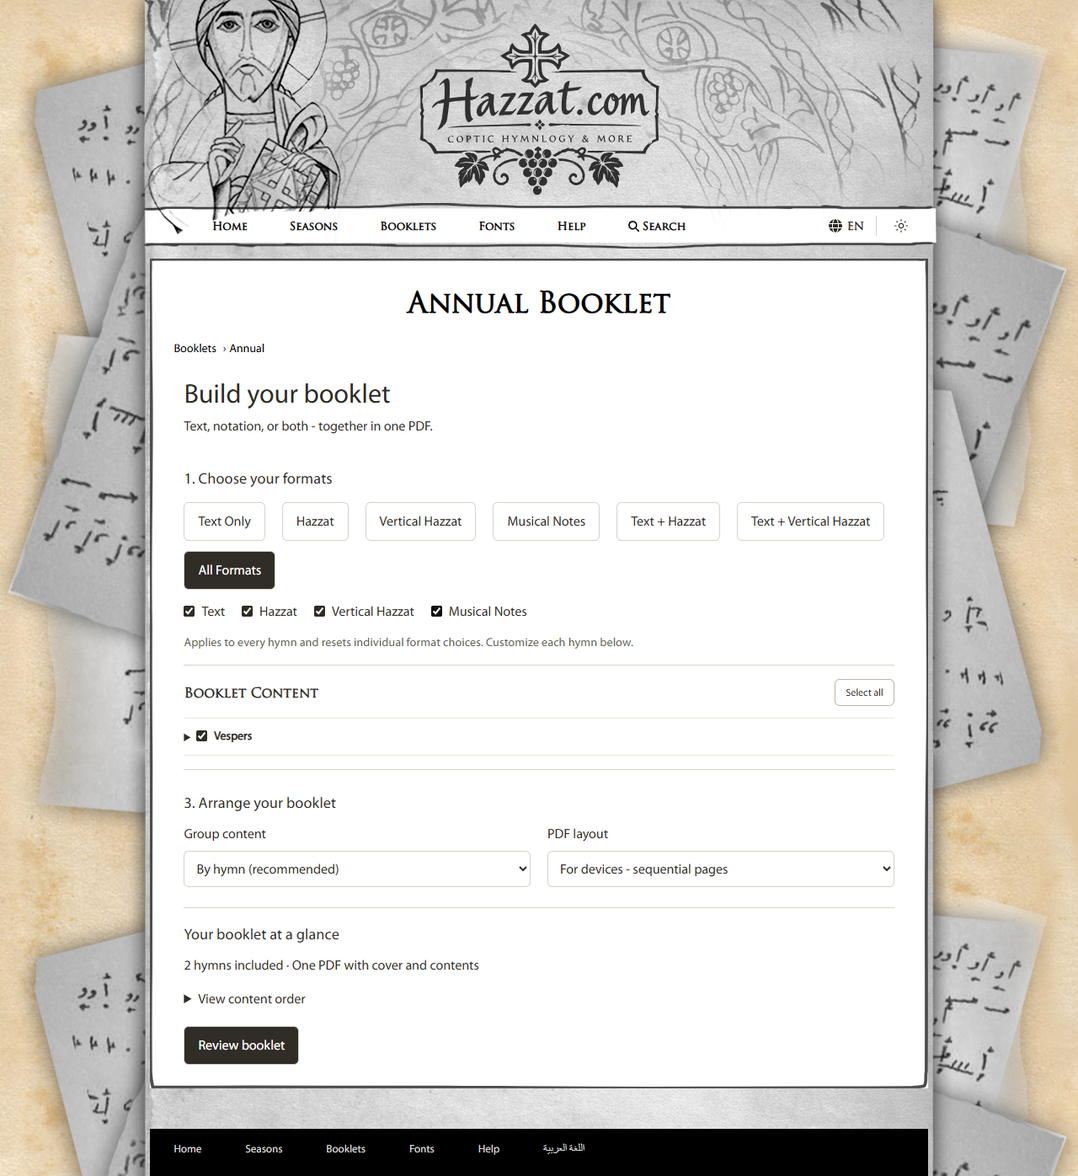
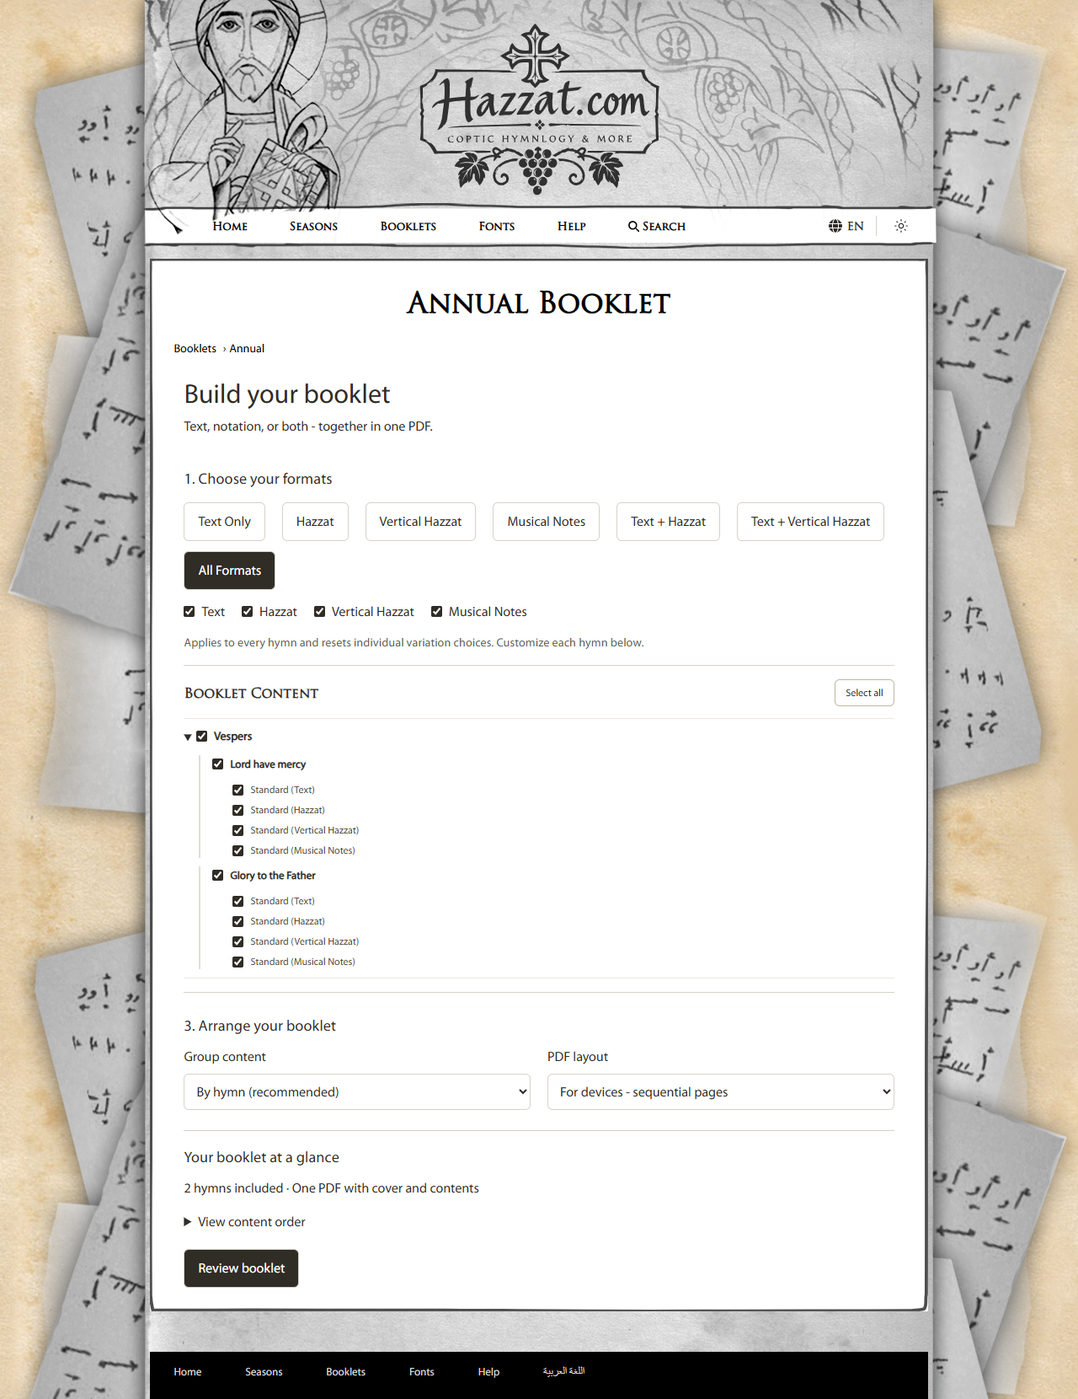
Simplify booklet hymn selection to named variations (#217)
* Simplify booklet hymn choices to named variation checkboxes

* Automatically omit unavailable booklet formats

diff --git a/src/Components/BookletDetails.tsx b/src/Components/BookletDetails.tsx
@@ -42,7 +42,6 @@ function BookletDetails() {
     const [formats, setFormats] = useState<BookletFormatKind[]>(["text", "regular"]);
     const [grouping, setGrouping] = useState<BookletGroupingKind>("hymn");
     const [layout, setLayout] = useState<BookletLayoutKind>("display");
-    const [allowMissing, setAllowMissing] = useState(false);
     const [preview, setPreview] = useState<{ url: string; name: string }>();
 
     const isMounted = useRef(true);
@@ -50,7 +49,6 @@ function BookletDetails() {
     const [loadFailed, setLoadFailed] = useState(false);
 
     useEffect(() => {
-        setAllowMissing(false);
         setPreview(undefined);
     }, [selection, formats, grouping, layout]);
 
@@ -110,7 +108,7 @@ function BookletDetails() {
         const request = requestId.current;
         const selected = getSelectedBookletServices(services, selection, formats);
         const selectedKinds = bookletFormatKinds.filter(kind => getBookletSections(selected, [kind]).length > 0);
-        if (!selectedKinds.length || (getMissingBookletFormats(services, selection, formats).length > 0 && !allowMissing)) return;
+        if (!selectedKinds.length) return;
         setActiveDownload(downloadKey);
         setErrorMessage(undefined);
 
@@ -151,7 +149,6 @@ function BookletDetails() {
 
     const selectedServices = getSelectedBookletServices(services, selection, formats);
     const sections = getBookletSections(selectedServices, bookletFormatKinds, grouping);
-    const missing = getMissingBookletFormats(services, selection, formats);
     const busy = !!activeDownload;
     const availableFormats = bookletFormatKinds.filter(kind => hasBookletFormat(services, kind));
     const presets: { kinds: BookletFormatKind[]; label: string }[] = [
@@ -165,7 +162,10 @@ function BookletDetails() {
     ];
     const applyFormats = (next: BookletFormatKind[]) => {
         setFormats(next);
-        setSelection(current => ({ ...current, formats: {} }));
+        setSelection(current => {
+            const nextSelection = createDefaultSelection(services);
+            return { ...current, formats: {}, variations: nextSelection.variations };
+        });
     };
 
     return (
@@ -210,7 +210,6 @@ function BookletDetails() {
                     selection={selection}
                     onSelectionChange={setSelection}
                     formats={formats}
-                    availableFormats={availableFormats}
                 />
                 <h3>{strings.bookletArrange}</h3>
                 <div className="bookletLayoutChoices">
@@ -227,11 +226,6 @@ function BookletDetails() {
                         </select>
                     </label>
                 </div>
-                {missing.length > 0 && <div className="bookletMissing" role="status">
-                    <strong>{strings.bookletMissingFormats}</strong>
-                    <ul>{missing.map(item => <li key={item.key}>{item.label}</li>)}</ul>
-                    <label><input type="checkbox" checked={allowMissing} onChange={event => setAllowMissing(event.target.checked)} /> {strings.bookletSkipMissing}</label>
-                </div>}
                 <section className="bookletReview" aria-labelledby="bookletReviewTitle">
                     <h3 id="bookletReviewTitle">{strings.bookletAtGlance}</h3>
                     <p aria-live="polite">{selectedServices.reduce((sum, service) => sum + (service.hymns?.length || 0), 0)} {strings.bookletHymnsSelected} · {strings.bookletOnePdf}</p>
@@ -239,7 +233,7 @@ function BookletDetails() {
                         <ol>{sections.map((section, i) => <li key={i}>{section.service.displayName || section.service.name} / {section.hymn.displayName || section.hymn.name} · {getFormatName(section.formatKind)}</li>)}</ol>
                     </details>
                     {!sections.length && <p role="status">{strings.bookletNoSelectedContent}</p>}
-                    <button type="button" className="bookletPrimaryAction" disabled={!sections.length || (missing.length > 0 && !allowMissing)} onClick={reviewBooklet}>
+                    <button type="button" className="bookletPrimaryAction" disabled={!sections.length} onClick={reviewBooklet}>
                         {busy ? strings.generatingBooklet : strings.bookletReviewPdf}
                     </button>
                 </section>
@@ -271,7 +265,6 @@ interface BookletContentSelectorProps {
     selection: BookletSelectionState;
     onSelectionChange: React.Dispatch<React.SetStateAction<BookletSelectionState>>;
     formats: BookletFormatKind[];
-    availableFormats: BookletFormatKind[];
 }
 
 function BookletContentSelector(props: BookletContentSelectorProps) {
@@ -302,7 +295,7 @@ function BookletContentSelector(props: BookletContentSelectorProps) {
 
                         {[...(service.hymns || [])].sort((a, b) => a.order - b.order).map(hymn => {
                             const selectableVariations = getSelectableVariations(hymn).filter(variation =>
-                                (hymn.formats?.find(format => format.id === variation.formatId)?.variations?.length || 0) > 1);
+                                hasBookletVariationContent(variation, formatKindFromId(variation.formatId)));
 
                             return (
                                 <div key={hymnKey(service, hymn)} className="bookletHymnSelector">
@@ -315,29 +308,17 @@ function BookletContentSelector(props: BookletContentSelectorProps) {
                                         {hymn.displayName || hymn.name}
                                     </label>
 
-                                    <div className="bookletFormatChoices">
-                                        {props.availableFormats.map(kind => <label key={kind}>
-                                            <input type="checkbox" checked={(props.selection.formats?.[hymnKey(service, hymn)] ?? props.formats).includes(kind)}
-                                                onChange={event => {
-                                                    const checked = event.target.checked;
-                                                    props.onSelectionChange(current => {
-                                                        const currentFormats = current.formats?.[hymnKey(service, hymn)] ?? props.formats;
-                                                        return { ...current, formats: { ...current.formats, [hymnKey(service, hymn)]: bookletFormatKinds.filter(k => k === kind ? checked : currentFormats.includes(k)) } };
-                                                    });
-                                                }} />{getFormatName(kind)}
-                                        </label>)}
-                                    </div>
-
                                     {selectableVariations.length > 0 && (
                                         <div className="bookletVariationSelectorGroup">
-                                            {selectableVariations.filter(variation => (props.selection.formats?.[hymnKey(service, hymn)] ?? props.formats).includes(formatKindFromId(variation.formatId))).map(variation => (
+                                            {selectableVariations.map(variation => (
                                                 <label key={variationKey(service, hymn, variation)} className="bookletVariationSelector">
                                                     <input
                                                         type="checkbox"
-                                                        checked={isVariationSelected(props.selection, service, hymn, variation)}
-                                                        onChange={event => toggleVariationSelection(props.onSelectionChange, service, hymn, variation, event.target.checked)}
+                                                        checked={isVariationSelected(props.selection, service, hymn, variation) &&
+                                                            (props.selection.formats?.[hymnKey(service, hymn)] ?? props.formats).includes(formatKindFromId(variation.formatId))}
+                                                        onChange={event => toggleVariationSelection(props.onSelectionChange, service, hymn, variation, event.target.checked, props.formats)}
                                                     />
-                                                    {getVariationDisplayName(variation)} <small>({getFormatName(formatKindFromId(variation.formatId))})</small>
+                                                    <span>{getVariationDisplayName(variation)} ({getFormatName(formatKindFromId(variation.formatId))})</span>
                                                 </label>
                                             ))}
                                         </div>
@@ -384,6 +365,7 @@ function toggleServiceSelection(
         next.services[service.id] = checked;
         (service.hymns || []).forEach(hymn => {
             next.hymns[hymnKey(service, hymn)] = checked;
+            delete next.formats?.[hymnKey(service, hymn)];
             getSelectableVariations(hymn).forEach(variation => {
                 next.variations[variationKey(service, hymn, variation)] = checked;
             });
@@ -401,6 +383,7 @@ function toggleHymnSelection(
     setSelection(selection => {
         const next = cloneSelection(selection);
         next.hymns[hymnKey(service, hymn)] = checked;
+        delete next.formats?.[hymnKey(service, hymn)];
         getSelectableVariations(hymn).forEach(variation => {
             next.variations[variationKey(service, hymn, variation)] = checked;
         });
@@ -414,11 +397,26 @@ function toggleVariationSelection(
     service: IServiceInfo,
     hymn: IHymnInfo,
     variation: BookletVariation,
-    checked: boolean
+    checked: boolean,
+    defaultFormats: BookletFormatKind[]
 ) {
     setSelection(selection => {
         const next = cloneSelection(selection);
+        const key = hymnKey(service, hymn);
+        const kind = formatKindFromId(variation.formatId);
+        const hymnWasSelected = isHymnSelected(selection, service, hymn);
+        const requested = hymnWasSelected ? selection.formats?.[key] ?? defaultFormats : [];
+        if (checked && !hymnWasSelected) {
+            getSelectableVariations(hymn).forEach(candidate => { next.variations[variationKey(service, hymn, candidate)] = false; });
+        }
+        const sameFormat = getSelectableVariations(hymn).filter(candidate => candidate.formatId === variation.formatId &&
+            hasBookletVariationContent(candidate, kind));
+        if (checked && !requested.includes(kind)) {
+            sameFormat.forEach(candidate => { next.variations[variationKey(service, hymn, candidate)] = false; });
+        }
         next.variations[variationKey(service, hymn, variation)] = checked;
+        const includeFormat = checked || sameFormat.some(candidate => next.variations[variationKey(service, hymn, candidate)] !== false);
+        next.formats = { ...next.formats, [key]: bookletFormatKinds.filter(candidate => candidate === kind ? includeFormat : requested.includes(candidate)) };
 
         if (checked) {
             next.hymns[hymnKey(service, hymn)] = true;
@@ -510,8 +508,11 @@ function hasSelectedHymnContent(selection: BookletSelectionState, service: IServ
     }
 
     const selectableVariations = getSelectableVariations(hymn);
+    const requested = selection.formats?.[hymnKey(service, hymn)];
+    if (requested && requested.length === 0) return false;
     return selectableVariations.length === 0 ||
-        selectableVariations.some(variation => selection.variations[variationKey(service, hymn, variation)] !== false);
+        selectableVariations.some(variation => (!requested || requested.includes(formatKindFromId(variation.formatId))) &&
+            selection.variations[variationKey(service, hymn, variation)] !== false);
 }
 
 function getBookletFormats(hymn: IHymnInfo): IFormatInfo[] {
@@ -543,18 +544,6 @@ function formatKindFromId(id: string): BookletFormatKind {
 
 function getFormatName(kind: BookletFormatKind): string {
     return kind === "musical" ? strings.musicalNotesLinkSuffix : kind === "text" ? strings.textFormatName : kind === "regular" ? strings.hazzatFormatName : strings.verticalHazzatFormatName;
-}
-
-export function getMissingBookletFormats(services: IServiceInfo[], selection: BookletSelectionState, formats: BookletFormatKind[]): { key: string; label: string }[] {
-    return services.flatMap(service => (service.hymns || []).filter(hymn => isHymnSelected(selection, service, hymn)).flatMap(hymn => {
-        const requested = selection.formats?.[hymnKey(service, hymn)] ?? formats;
-        const available = getSelectedBookletServices([{ ...service, hymns: [hymn] }], selection, formats);
-        if (!requested.length) return [{ key: hymnKey(service, hymn), label: `${service.displayName || service.name} / ${hymn.displayName || hymn.name}: ${strings.bookletChooseOneFormat}` }];
-        return requested.filter(kind => !getBookletSections(available, [kind]).length).map(kind => ({
-            key: `${hymnKey(service, hymn)}/${kind}`,
-            label: `${service.displayName || service.name} / ${hymn.displayName || hymn.name}: ${getFormatName(kind)}`
-        }));
-    }));
 }
 
 export default BookletDetails;

diff --git a/src/Components/BookletDetails.test.tsx b/src/Components/BookletDetails.test.tsx
@@ -5,7 +5,7 @@ import { HymnsDataProvider } from "../Providers/HymnsDataProvider/HymnsDataProvi
 import { ContentLanguage, ContentType } from "../Providers/HymnsDataProvider/Models/IVariationInfo";
 import { IServiceInfo } from "../Providers/HymnsDataProvider/Models/IServiceInfo";
 import { strings } from "../l8n";
-import BookletDetails, { getMissingBookletFormats, getSelectedBookletServices } from "./BookletDetails";
+import BookletDetails, { getSelectedBookletServices } from "./BookletDetails";
 
 jest.mock("axios", () => ({ create: jest.fn() }));
 
@@ -65,15 +65,16 @@ describe("booklet builder", () => {
         expect(revokeUrl).toHaveBeenCalledTimes(2);
     });
 
-    it("requires an explicit choice before omitting unavailable formats and disables empty booklets", async () => {
+    it("automatically omits unavailable formats and still disables empty booklets", async () => {
         const partial = { ...service, hymns: [...service.hymns!, { ...service.hymns![0], id: "second", name: "Second hymn", displayName: "Second hymn", formats: [service.hymns![0].formats![1]] }] };
         jest.spyOn(HymnsDataProvider.prototype, "getServiceList").mockResolvedValue([partial]);
         await openBuilder();
         fireEvent.click(screen.getByRole("button", { name: "Text + Hazzat" }));
-        expect(screen.getByRole("button", { name: "Review booklet" })).toBeDisabled();
-        expect(screen.getByRole("status")).toHaveTextContent("Second hymn: Text");
-        fireEvent.click(screen.getByLabelText(/Include available content/));
         expect(screen.getByRole("button", { name: "Review booklet" })).toBeEnabled();
+        expect(screen.queryByLabelText(/Include available content/)).not.toBeInTheDocument();
+        fireEvent.click(screen.getByRole("button", { name: "Review booklet" }));
+        await screen.findByRole("link", { name: "Download PDF" });
+        expect(generator.mock.calls[0][0].services[0].hymns!.map(hymn => hymn.formats!.map(format => format.id))).toEqual([["1", "2"], ["2"]]);
         fireEvent.click(screen.getByRole("button", { name: "Hazzat", exact: true }));
         expect(screen.queryByText(/Some selected formats/)).not.toBeInTheDocument();
         fireEvent.click(screen.getByRole("checkbox", { name: "Vespers" }));
@@ -83,13 +84,15 @@ describe("booklet builder", () => {
     it("supports per-hymn overrides, format grouping, and resets overrides when applying a preset", async () => {
         const { container } = await openBuilder();
         const hymn = container.querySelector('.bookletHymnSelector') as HTMLElement;
-        fireEvent.click(within(hymn).getByRole("checkbox", { name: "Hazzat", exact: true }));
+        expect(hymn.querySelector('.bookletFormatChoices')).not.toBeInTheDocument();
+        expect(within(hymn).getByRole("checkbox", { name: "Text words (Text)", exact: true })).toBeChecked();
+        fireEvent.click(within(hymn).getByRole("checkbox", { name: "Notation (Hazzat)", exact: true }));
         fireEvent.change(screen.getByLabelText("Group content"), { target: { value: "format" } });
         fireEvent.click(screen.getByRole("button", { name: "Review booklet" }));
         await screen.findByRole("link", { name: "Download PDF" });
         expect(generator).toHaveBeenLastCalledWith(expect.objectContaining({ formatKinds: ["text"], groupingKind: "format" }));
         fireEvent.click(screen.getByRole("button", { name: "Text + Hazzat" }));
-        expect(within(hymn).getByRole("checkbox", { name: "Hazzat", exact: true })).toBeChecked();
+        expect(within(hymn).getByRole("checkbox", { name: "Notation (Hazzat)", exact: true })).toBeChecked();
     });
 
     it("shows generation errors and permits retry", async () => {
@@ -101,6 +104,44 @@ describe("booklet builder", () => {
         expect(screen.getByRole("button", { name: "Review booklet" })).toBeEnabled();
         fireEvent.click(screen.getByRole("button", { name: "Review booklet" }));
         await screen.findByRole("link", { name: "Download PDF" });
+    });
+
+    it("lets a variation outside the preset add its format without selecting its sibling alternatives", async () => {
+        const alternatives = JSON.parse(JSON.stringify(service)) as IServiceInfo;
+        const notation = alternatives.hymns![0].formats![1];
+        notation.variations!.push({ ...notation.variations![0], id: "second", name: "Long tune", displayName: "Long tune" });
+        notation.variationCount = 2;
+        jest.spyOn(HymnsDataProvider.prototype, "getServiceList").mockResolvedValue([alternatives]);
+        const { container } = await openBuilder();
+        fireEvent.click(screen.getByRole("button", { name: "Text Only" }));
+        const hymn = container.querySelector('.bookletHymnSelector') as HTMLElement;
+        const first = within(hymn).getByRole("checkbox", { name: "Notation (Hazzat)", exact: true });
+        const second = within(hymn).getByRole("checkbox", { name: "Long tune (Hazzat)", exact: true });
+        expect(first).not.toBeChecked();
+        expect(second).not.toBeChecked();
+        fireEvent.click(second);
+        expect(first).not.toBeChecked();
+        expect(second).toBeChecked();
+        fireEvent.click(screen.getByRole("button", { name: "Review booklet" }));
+        await screen.findByRole("link", { name: "Download PDF" });
+        const options = generator.mock.calls[0][0];
+        expect(options.formatKinds).toEqual(["text", "regular"]);
+        expect(options.services[0].hymns![0].formats![1].variations!.map(v => v.id)).toEqual(["second"]);
+        fireEvent.click(second);
+        expect(screen.queryByText(/Some selected formats/)).not.toBeInTheDocument();
+        expect(screen.getByRole("button", { name: "Review booklet" })).toBeEnabled();
+        fireEvent.click(within(hymn).getByRole("checkbox", { name: "Text words (Text)" }));
+        expect(screen.getByRole("button", { name: "Review booklet" })).toBeDisabled();
+        fireEvent.click(within(hymn).getByRole("checkbox", { name: "First hymn", exact: true }));
+        expect(within(hymn).getByRole("checkbox", { name: "Text words (Text)" })).toBeChecked();
+        expect(first).not.toBeChecked();
+        expect(second).not.toBeChecked();
+        fireEvent.click(screen.getByRole("checkbox", { name: "Vespers", exact: true }));
+        fireEvent.click(screen.getByRole("button", { name: "All Formats" }));
+        fireEvent.click(second);
+        expect(second).toBeChecked();
+        expect(first).not.toBeChecked();
+        expect(within(hymn).getByRole("checkbox", { name: "Text words (Text)" })).not.toBeChecked();
     });
 
     it("locks selection during generation and releases an unfinished preview on unmount", async () => {
@@ -119,8 +160,7 @@ describe("booklet builder", () => {
         const selection = { services: {}, hymns: {}, variations: {}, formats: { "annual/vespers/first": ["text" as const] } };
         const selected = getSelectedBookletServices([service, other], selection, ["regular"]);
         expect(selected.map(s => s.hymns![0].formats!.map(f => f.id))).toEqual([["1"], ["2"]]);
-        expect(getMissingBookletFormats([service, other], selection, ["regular"])).toEqual([]);
-        expect(getMissingBookletFormats([service], { ...selection, formats: { "annual/vespers/first": [] } }, ["regular"])).toHaveLength(1);
+        expect(getSelectedBookletServices([service], { ...selection, formats: { "annual/vespers/first": [] } }, ["regular"])).toEqual([]);
     });
 
     it("allows a musical-notes-only booklet from its preset", async () => {

diff --git a/src/l8n.ts b/src/l8n.ts
@@ -28,7 +28,7 @@ export const strings = new LocalizedStrings({
         bookletTextHazzat: "Text + Hazzat",
         bookletTextVerticalHazzat: "Text + Vertical Hazzat",
         bookletAllFormats: "All Formats",
-        bookletFormatsHint: "Applies to every hymn and resets individual format choices. Customize each hymn below.",
+        bookletFormatsHint: "Applies to every hymn and resets individual variation choices. Customize each hymn below.",
         bookletArrange: "3. Arrange your booklet",
         bookletGroupContent: "Group content",
         bookletByHymn: "By hymn (recommended)",
@@ -36,9 +36,6 @@ export const strings = new LocalizedStrings({
         bookletPdfLayout: "PDF layout",
         bookletDeviceLayout: "For devices - sequential pages",
         bookletPrintLayout: "For printing - fold and staple",
-        bookletMissingFormats: "Some selected formats have no selected content. Customize the affected hymns or continue with available content:",
-        bookletSkipMissing: "Include available content and omit the missing selections listed above",
-        bookletChooseOneFormat: "Choose at least one format",
         bookletAtGlance: "Your booklet at a glance",
         bookletHymnsSelected: "hymns included",
         bookletOnePdf: "One PDF with cover and contents",
@@ -320,7 +317,7 @@ export const strings = new LocalizedStrings({
         bookletTextHazzat: "النص والهزات",
         bookletTextVerticalHazzat: "النص والهزات العمودية",
         bookletAllFormats: "جميع التنسيقات",
-        bookletFormatsHint: "يُطبّق على جميع الألحان ويعيد تعيين اختيارات التنسيق الفردية. يمكنك تخصيص كل لحن أدناه.",
+        bookletFormatsHint: "يُطبّق على جميع الألحان ويعيد تعيين اختيارات التنويعات الفردية. يمكنك تخصيص كل لحن أدناه.",
         bookletArrange: "٣. رتّب كتيّبك",
         bookletGroupContent: "تجميع المحتوى",
         bookletByHymn: "حسب اللحن (موصى به)",
@@ -328,9 +325,6 @@ export const strings = new LocalizedStrings({
         bookletPdfLayout: "تخطيط PDF",
         bookletDeviceLayout: "للأجهزة - صفحات متتابعة",
         bookletPrintLayout: "للطباعة - الطي والتدبيس",
-        bookletMissingFormats: "بعض التنسيقات المختارة لا تحتوي على محتوى محدد. خصّص الألحان التالية أو تابع بالمحتوى المتاح:",
-        bookletSkipMissing: "تضمين المحتوى المتاح وحذف الاختيارات غير المتاحة المذكورة أعلاه",
-        bookletChooseOneFormat: "اختر تنسيقًا واحدًا على الأقل",
         bookletAtGlance: "نظرة على كتيّبك",
         bookletHymnsSelected: "ألحان مضمنة",
         bookletOnePdf: "ملف PDF واحد مع الغلاف والفهرس",

diff --git a/src/Components/BookletDetails.css b/src/Components/BookletDetails.css
@@ -154,7 +154,6 @@
 .bookletLayoutChoices label { flex: 1 1 240px; min-width: 0; display: flex; flex-direction: column; align-items: stretch; }
 .bookletLayoutChoices select { width: 100%; min-width: 0; padding: 10px; border-radius: 6px; border: 1px solid var(--rule, #bdb6a6); background: transparent; color: inherit; }
 .bookletLayoutChoices option { background: Canvas; color: CanvasText; }
-.bookletMissing { border-inline-start: 3px solid var(--rule, #bdb6a6); padding-inline-start: 16px; margin-block: 20px; overflow-wrap: anywhere; }
 .bookletReview { border-top: 1px solid var(--rule, #d7d2c7); margin-top: 24px; }
 .bookletReview summary { cursor: pointer; }
 .bookletReview li { padding-block: 5px; overflow-wrap: anywhere; }
